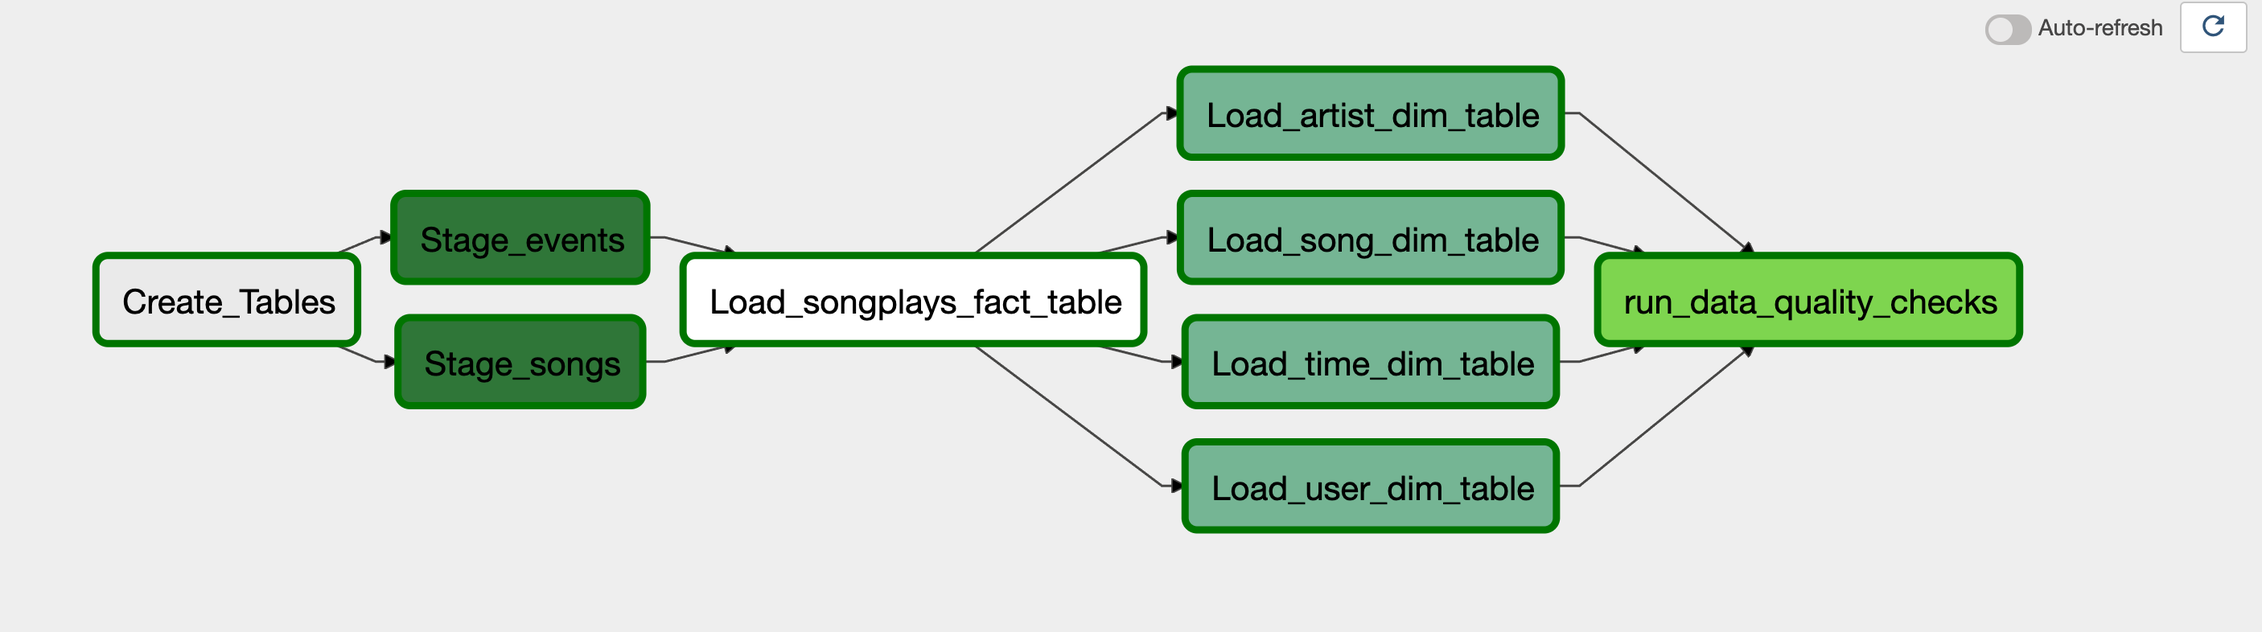
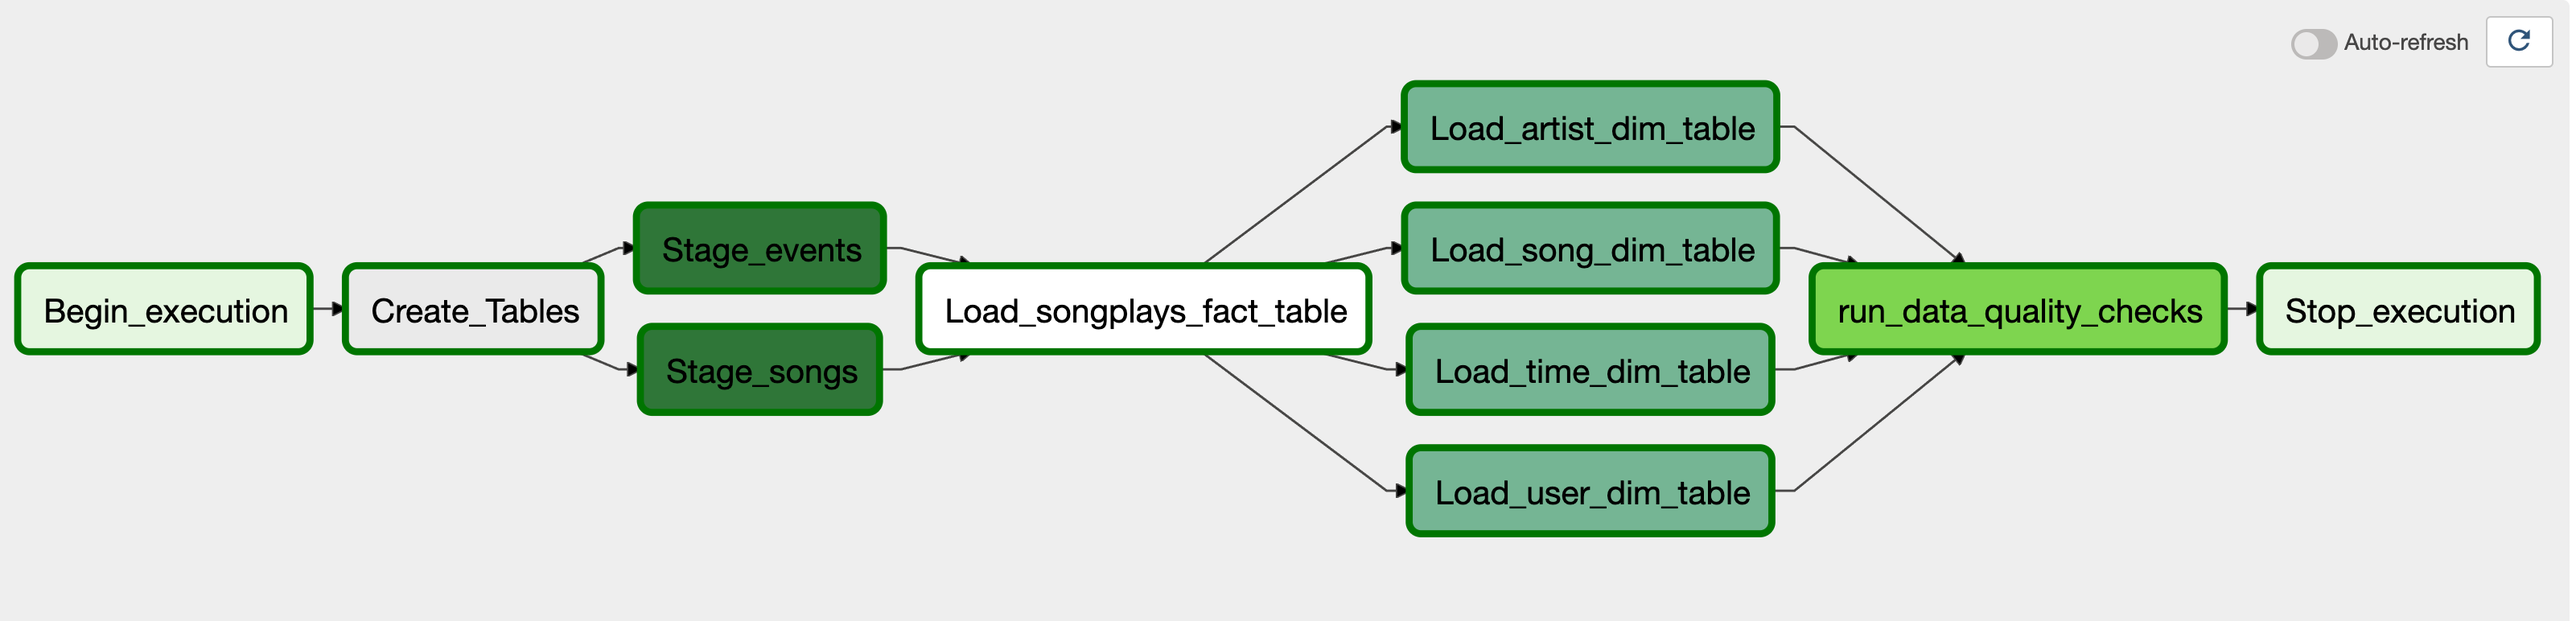
updated pipelines according to comments;

Changed region(s): [[0.0, 0.0933, 0.99, 0.8705], [0.8663, 0.0, 1.0, 0.0933], [0.4641, 0.6218, 0.495, 0.6528]]

diff --git a/plugins/operators/data_quality.py b/plugins/operators/data_quality.py
@@ -1,3 +1,5 @@
+from symbol import comparison
+
 from airflow.hooks.postgres_hook import PostgresHook
 from airflow.models import BaseOperator
 from airflow.utils.decorators import apply_defaults
@@ -8,26 +10,37 @@ class DataQualityOperator(BaseOperator):
     """
 
     ui_color = '#89DA59'
+    data_quality_checks = [
+        {'check_sql': "SELECT COUNT(*) FROM users WHERE userid is null",
+         'expected_result': 0},
+        {'check_sql': "SELECT COUNT(*) FROM songs WHERE songid is null",
+         'expected_result': 0},
+        {'check_sql': "SELECT COUNT(*) FROM artists WHERE artistid is null",
+         'expected_result': 0},
+        {'check_sql': "SELECT COUNT(*) FROM time WHERE start_time is null",
+         'expected_result': 0},
+        {'check_sql': "SELECT COUNT(*) FROM songplays WHERE playid is null",
+         'expected_result': 0}]
 
     @apply_defaults
     def __init__(self,
                  redshift_conn_id="redshift",
-                 tables=None,
                  *args, **kwargs):
 
         super(DataQualityOperator, self).__init__(*args, **kwargs)
-        if tables is None:
-            tables = []
-        self.tables = tables
         self.redshift_conn_id = redshift_conn_id
 
     def execute(self, context):
         redshift_hook = PostgresHook(self.redshift_conn_id)
-        for table in self.tables:
-            records = redshift_hook.get_records(f"SELECT COUNT(*) FROM {table}")
-            if len(records) < 1 or len(records[0]) < 1:
-                raise ValueError(f"Data quality check failed. {table} returned no results")
-            num_records = records[0][0]
-            if num_records < 1:
-                raise ValueError(f"Data quality check failed. {table} contained 0 rows")
-            self.log.info(f"Data quality on table {table} check passed with {records[0][0]} records")
+        for stmt in DataQualityOperator.data_quality_checks:
+            result = redshift_hook.get_records(sql=stmt['check_sql'])[0][0]
+            exp_result = stmt.get('expected_result')
+            error_count = 0
+            if result !=exp_result:
+                error_count += 1
+                self.log.info(f"This test {stmt['check_sql']} failed. Result is {result} and expected result is {exp_result})")
+            elif error_count == 0:
+                self.log.info(
+                    f"This test {stmt['check_sql']} passed. Result is {result} and expected result is {exp_result})")
+
+

diff --git a/dags/etl.py b/dags/etl.py
@@ -20,9 +20,9 @@ default_args = {
     'email': ['airflow@example.com'],
     'email_on_failure': False,
     'email_on_retry': False,
-    'retries': 1,
+    'retries': 3,
     'retry_delay': timedelta(minutes=5),
-    'sla': timedelta(hours=2),
+    # 'sla': timedelta(hours=2),
 }
 
 dag = DAG('etl_dag',
@@ -32,7 +32,7 @@ dag = DAG('etl_dag',
           catchup=False
           )
 
-# start_operator = DummyOperator(task_id='Begin_execution',  dag=dag)
+start_operator = DummyOperator(task_id='Begin_execution',  dag=dag)
 
 create_tables = PostgresOperator(
     task_id="Create_Tables",
@@ -104,9 +104,12 @@ load_time_dimension_table = LoadDimensionOperator(
 )
 run_quality_checks = DataQualityOperator(
     task_id='run_data_quality_checks',
-    tables=["users","artists","songs","time"],
     dag=dag
 )
 
+end_operator = DummyOperator(task_id='Stop_execution',  dag=dag)
+
+start_operator >> create_tables
 create_tables  >> [stage_events_to_redshift, stage_songs_to_redshift] >> load_songplays_table
 load_songplays_table >> [load_user_dimension_table,load_song_dimension_table,load_artist_dimension_table,load_time_dimension_table] >> run_quality_checks
+run_quality_checks >> end_operator

diff --git a/plugins/operators/stage_redshift.py b/plugins/operators/stage_redshift.py
@@ -39,6 +39,7 @@ class StageToRedshiftOperator(BaseOperator):
 
     def execute(self, context):
         aws_hook = AwsHook(self.aws_credentials_id,client_type="redshift")
+        # aws_hook = AwsHook(self.aws_credentials_id)
         credentials = aws_hook.get_credentials()
         redshift = PostgresHook(postgres_conn_id=self.redshift_conn_id)
 
